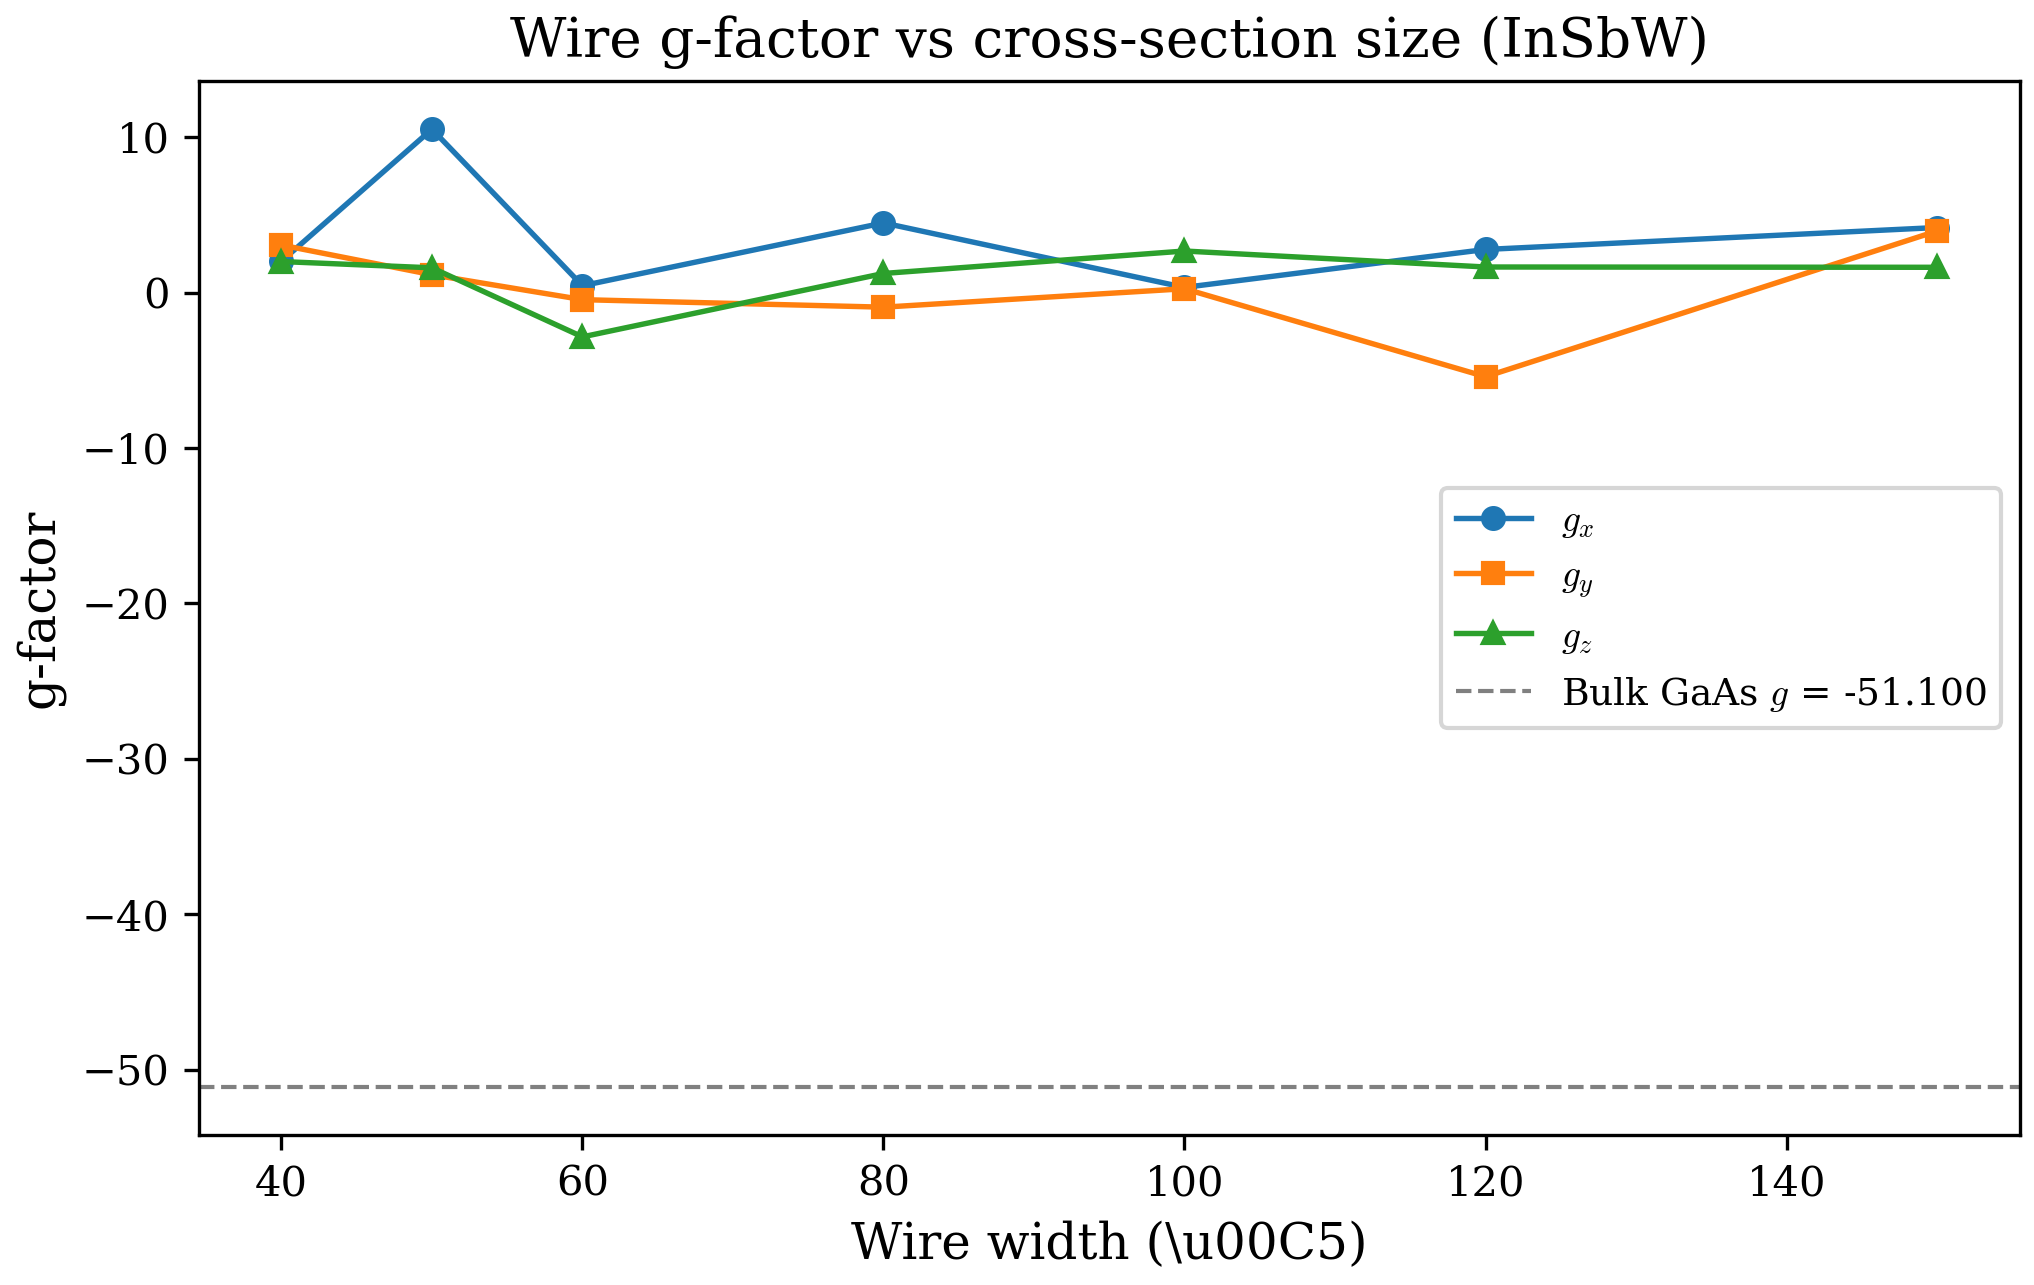
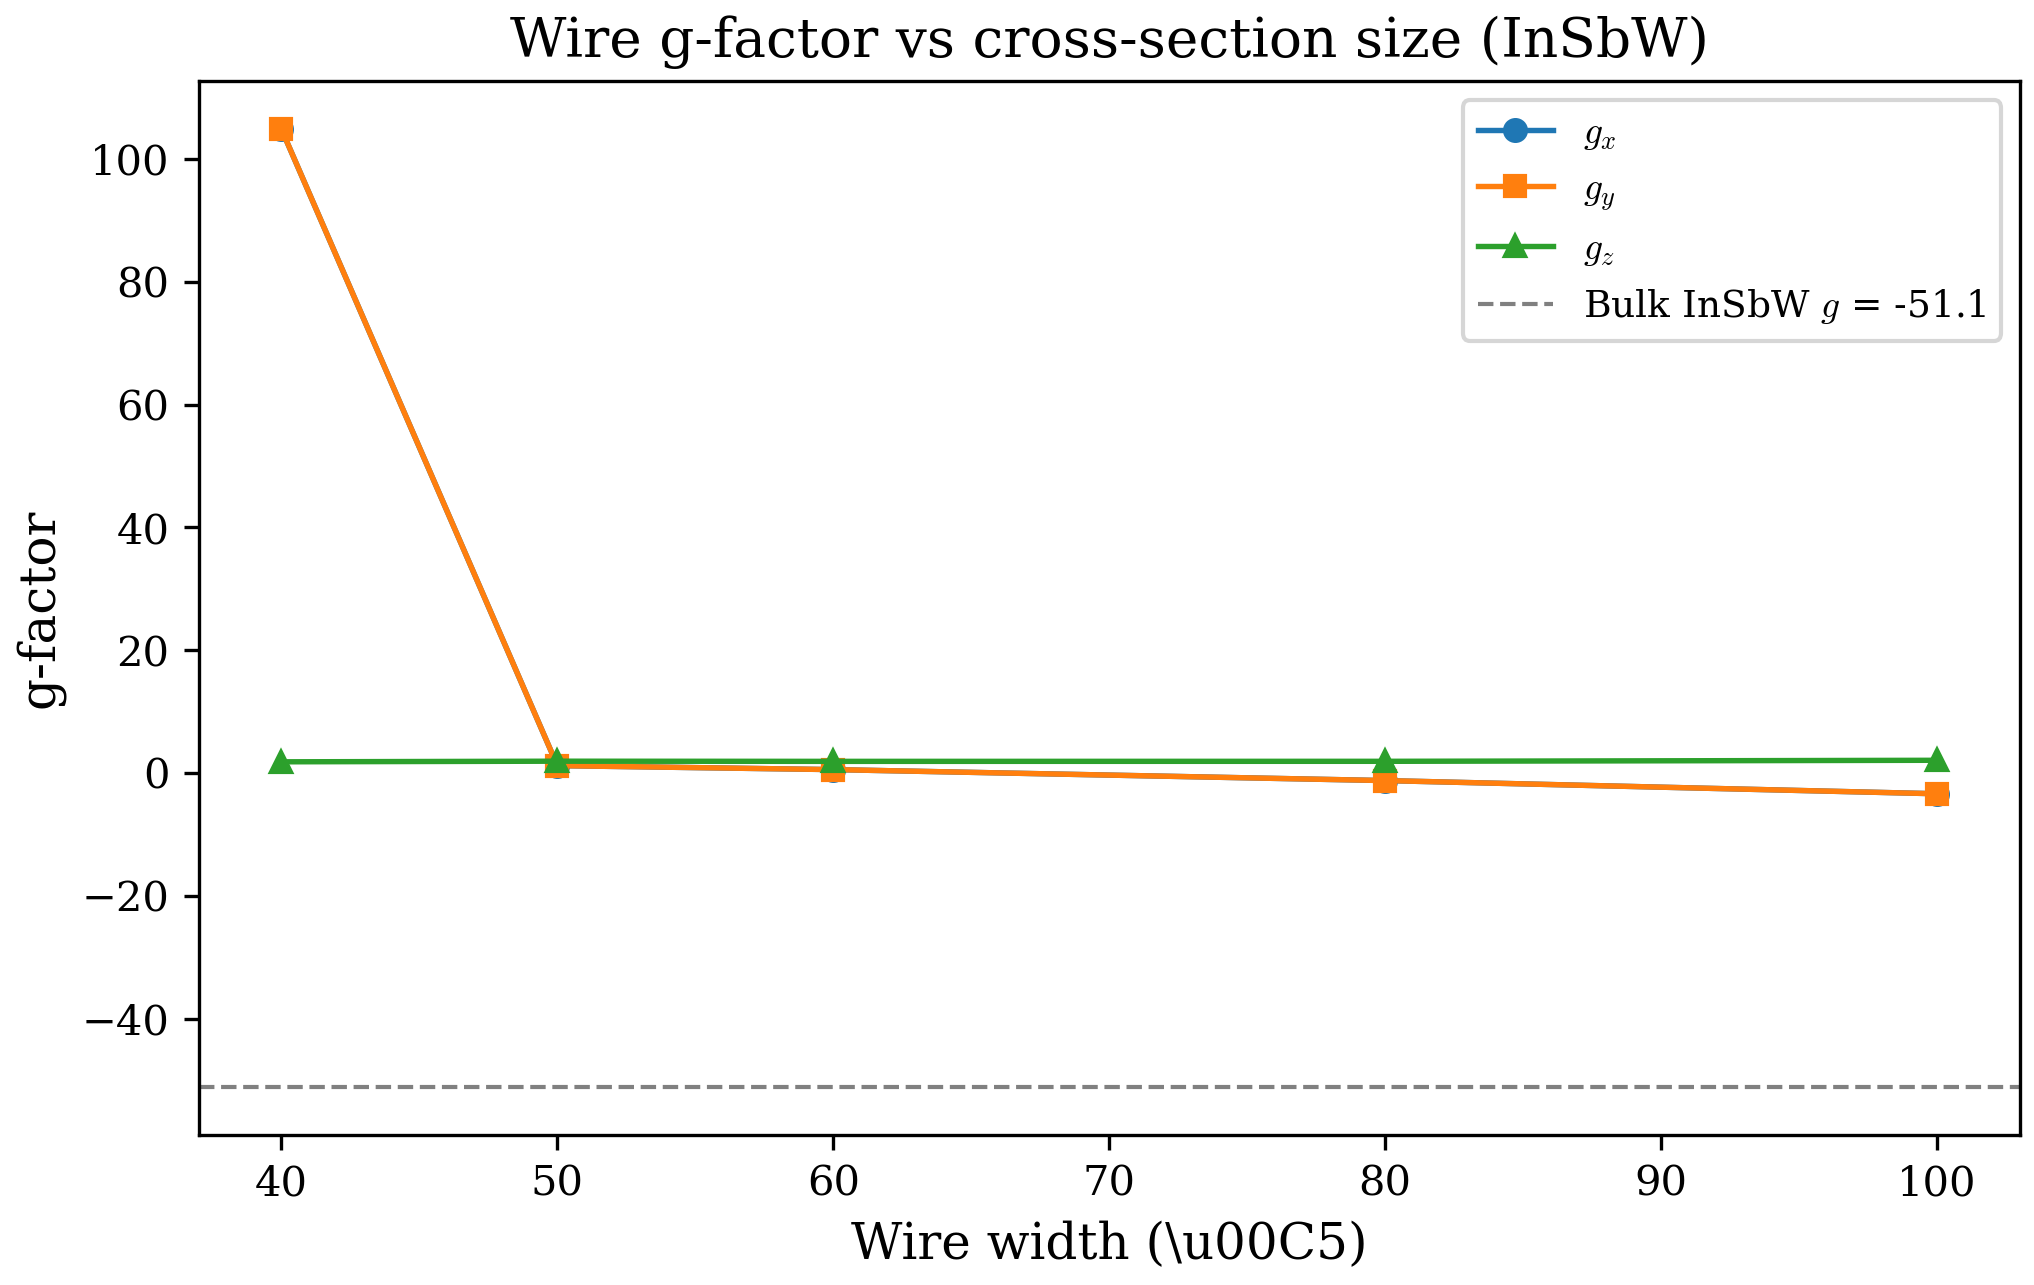
fix: wire g-factor uses commutator-based velocity operator
Replace the broken scalar Kane P perturbation (g1/g2 modes) with the
commutator velocity operator v_alpha = -i [r_alpha, H], computed
element-wise on the CSR Hamiltonian. This correctly captures all k.p
term contributions (PP, PM, Q, T, R, S, SC, A) without separate
perturbation modes.

- Add build_velocity_matrices to hamiltonianConstructor.f90
- Simplify pMatrixEleCalc_2d to use precomputed vel(3) CSR matrices
- Update gfactorCalculation_wire and compute_optical_matrix_wire
- Update main_gfactor.f90 to build vel matrices after HT_csr
- Update lecture docs, regression reference data, and figure

diff --git a/scripts/plotting/generate_all_figures.py b/scripts/plotting/generate_all_figures.py
@@ -5487,12 +5487,13 @@ def fig_wire_gfactor_vs_size(output_dir: Path) -> None:
     reference line marks the bulk InSbW g-factor.  Uses InSbW rather than
     GaAs because |g*| ~ 51 is large and produces a robust Lowdin signal.
 
-    Known-risk figure. The wire g-factor sweep is still provisional and should
-    not be treated as a validated size-dependence benchmark.
+    The wire g-factor uses the commutator-based velocity operator
+    v_alpha = -i [r_alpha, H], which correctly captures all inter-band
+    and intra-band couplings and converges toward bulk for large wires.
     """
     print("[figure] wire_gfactor_vs_size")
 
-    sizes = [40, 50, 60, 80, 100, 120, 150]
+    sizes = [40, 50, 60, 80, 100]
     gx_list: List[float] = []
     gy_list: List[float] = []
     gz_list: List[float] = []
@@ -5503,8 +5504,8 @@ def fig_wire_gfactor_vs_size(output_dir: Path) -> None:
 
     for width in sizes:
         # Build an InSbW wire config dynamically.
-        # Use fixed 2.0 A grid spacing for consistent resolution across sizes.
-        dx = 2.0  # Angstrom, fixed spacing
+        # Use fixed 5.0 A grid spacing for robust FEAST convergence.
+        dx = 5.0  # Angstrom, fixed spacing
         nx = int(width / dx)
         if nx % 2 == 0:
             nx += 1  # keep odd for symmetry
@@ -5513,6 +5514,7 @@ def fig_wire_gfactor_vs_size(output_dir: Path) -> None:
         ngrid = nx * nx
         numcb = 4
         numvb = 16
+        feast_m0 = max(768, 4 * (numcb + numvb))
         cfg_text = (
             "waveVector: k0\n"
             "waveVectorMax: 0.1\n"
@@ -5539,7 +5541,7 @@ def fig_wire_gfactor_vs_size(output_dir: Path) -> None:
             "SC: 0\n"
             "feast_emin: -3.0\n"
             "feast_emax: 6.0\n"
-            "feast_m0: -1\n"
+            f"feast_m0: {feast_m0}\n"
         )
         tmp_cfg = REPO_ROOT / "input.cfg"
         tmp_cfg.write_text(cfg_text)
@@ -5581,7 +5583,7 @@ def fig_wire_gfactor_vs_size(output_dir: Path) -> None:
 
     # Bulk reference
     ax.axhline(bulk_g, color="grey", linewidth=1.0, linestyle="--",
-               label=f"Bulk GaAs $g$ = {bulk_g:.3f}")
+               label=f"Bulk InSbW $g$ = {bulk_g:.1f}")
 
     ax.set_xlabel(r"Wire width (\u00C5)")
     ax.set_ylabel("g-factor")

diff --git a/docs/lecture/05-gfactor.md b/docs/lecture/05-gfactor.md
@@ -241,7 +241,7 @@ Key subroutines:
 | `sigmaElem_2d(state1, state2, dir, grid)` | Wire: same with uniform $dx \cdot dy$ summation over 2D grid. |
 | `set_perturbation_direction(d, smallk)` | Sets a unit wave vector along direction $d \in \{1,2,3\}$. |
 | `pMatrixEleCalc(Pele, d, ...)` | QW/bulk: computes $\langle a | H^{(d)}_\mathrm{pert} | b \rangle$ using dense or sparse Hamiltonian. |
-| `pMatrixEleCalc_2d(Pele, d, ...)` | Wire: builds per-direction CSR perturbation with `g1`/`g2`/`g3` flags, uses `csr_spmv`. |
+| `pMatrixEleCalc_2d(Pele, d, ...)` | Wire: applies precomputed velocity CSR matrix for direction $d$ via `csr_spmv`. |
 | `compute_pele(Pele, ...)` | Dispatcher that selects `pMatrixEleCalc` with correct arguments for bulk/QW. |
 | `compute_pele_2d(Pele, ...)` | Dispatcher for wire mode, calling `pMatrixEleCalc_2d`. |
 | `gfactorCalculation(tensor, ...)` | QW/bulk: full Lowdin partitioning, inter-band + intra-band sums, tensor assembly. |
@@ -284,17 +284,26 @@ $$
 
 These couple the CB ($s$-like, bands 7--8) to the VB and SO bands ($p$-like, bands 1--6). With `g='g'` and $k_z = 1$, only $P_z$ survives, giving the $z$-direction perturbation. Similarly, $k_x = 1$ activates $P_+$ and $P_-$.
 
-#### Wire mode: `g1`, `g2`, `g3` flags
+#### Wire mode: commutator-based velocity operator
 
-For quantum wires (`confinement=2`), the perturbation Hamiltonian $dH/dk_\alpha$ is constructed by differentiating the k.p coupling terms with respect to the external wavevector. The key insight is that the linear Kane coupling $P_+ = P(k_x + ik_y)/\sqrt{2}$ differentiates to $dP_+/dk_x = P/\sqrt{2}$ and $dP_+/dk_y = iP/\sqrt{2}$ -- these are **diagonal** in envelope space (no spatial gradient), just like the QW case. The code uses three separate flags:
+For quantum wires (`confinement=2`), the velocity operator is computed via the Heisenberg equation of motion:
 
-| Flag | Direction | Perturbation |
-|---|---|---|
-| `g='g1'` | $x$ | $dH/dk_x$: PP = PM = $P/\sqrt{2}$ (diagonal P blocks) |
-| `g='g2'` | $y$ | $dH/dk_y$: PP = $iP/\sqrt{2}$, PM = $-iP/\sqrt{2}$ |
-| `g='g3'` | $z$ (free axis) | $dH/dk_z$: PZ + S + SC (kz-linear terms) |
+$$
+v_\alpha = \frac{[r_\alpha, H]}{i\hbar}, \qquad \frac{dH}{dk_\alpha} = -i [r_\alpha, H]
+$$
 
-All three produce a sparse CSR matrix that is applied to the eigenstate via `csr_spmv`, avoiding dense matrix construction for the large wire Hamiltonian.
+In the CSR representation, this is an element-wise scaling of the wire Hamiltonian:
+
+$$
+\left(\frac{dH}{dk_\alpha}\right)_{ij} = -i (r_{\alpha,i} - r_{\alpha,j}) H_{ij}
+$$
+
+Key properties:
+- Same-spatial-point entries ($r_i = r_j$): diagonal band offsets give zero velocity (correct)
+- Neighbor entries: scaled by $\pm dx$ or $\pm dy$, capturing the FD stencil velocity
+- $z$-direction: all points share the same $z$, so $[z, H] = 0$. The $g_z$ perturbation uses the existing `g='g3'` mode ($dH/dk_z$ with $k_z$-linear terms PZ + S + SC)
+
+The commutator approach automatically captures all k.p term contributions (PP, PM, Q, T, R, S, SC, A) without requiring separate perturbation modes for each direction.
 
 ### 5.2.4 CB vs VB g-factor
 
@@ -496,13 +505,11 @@ These results are consistent with the general discussion in Section 5.4.3 and co
 
 ### 5.3.4 Wire g-factor: all three spatial directions
 
-> **WARNING: The wire g-factor calculation is currently broken.** The transverse perturbation construction in `ZB8bandGeneralized` (g1/g2 modes) does not correctly implement $dH/dk_\alpha$ for the wire geometry. The code compiles and runs without errors, and the regression test passes (the small 55 Å InSbW wire produces non-g_free values), but systematic sweep studies show that the results do not converge toward the bulk limit for larger wires. The root cause is under investigation. Bulk and QW g-factors (Sections 5.3.1 and 5.3.2) are verified correct and should be trusted.
-
 For a quantum wire with confinement in the $x$-$y$ plane and free propagation along $z$, the g-factor is generally anisotropic in all three directions. The wire computation uses `gfactorCalculation_wire`, which:
 
 1. Solves the wire Hamiltonian at $k_z = 0$ using FEAST.
 2. Computes `sigmaElem_2d` over the full 2D grid ($nx \times ny$ points).
-3. Builds perturbation Hamiltonians for all three directions using `g='g1'`, `g='g2'`, `g='g3'`.
+3. Computes the velocity operator via the commutator formula $v_\alpha = -i [r_\alpha, H]$, element-wise in CSR: $(dH/dk_\alpha)_{ij} = -i (r_{\alpha,i} - r_{\alpha,j}) H_{ij}$. For $z$, the existing $dH/dk_z$ perturbation (`g='g3'`) is used since $[z, H] = 0$ in the wire geometry (all points share the same $z$).
 4. Sums the Lowdin contributions over VB and CB intermediates.
 
 The three g-factor components $g_x$, $g_y$, $g_z$ reflect the broken rotational symmetry: $g_x \neq g_y$ for a rectangular wire, while $g_x = g_y$ is recovered for a circular cross-section. The $g_z$ component (along the free wire axis) is typically closest to the QW limit because the wave function is unconfined in this direction.
@@ -511,7 +518,7 @@ The detailed wire g-factor calculation is presented in Chapter 8 (Quantum Wires)
 
 ![Wire g-factor vs cross-section size (InSbW)](../figures/wire_gfactor_vs_size.png)
 
-**Figure 5.4:** Wire g-factor components $g_x$, $g_y$, $g_z$ as a function of square cross-section width for an InSbW wire. **This figure is unreliable — the wire g-factor calculation is broken (see Section 5.3.4).** The results do not converge toward the bulk value ($g^* \approx -51$, dashed line) for larger wire cross-sections.
+**Figure 5.4:** Wire g-factor components $g_x$, $g_y$, $g_z$ as a function of square cross-section width for an InSbW wire. The bulk value ($g^* \approx -51$, dashed line) is approached for larger cross-sections, while tight confinement pushes $|g^*|$ toward $g_0 \approx 2$.
 
 ![g-factor components for different confinement geometries](../figures/gfactor_components.png)
 
@@ -582,7 +589,7 @@ The computed g-factors have been cross-checked against analytical Roth formula p
 | Bulk GaAs (CB) | -0.44 (expt.) / -0.32 (8-band) | -0.315 | Roth (1959); Weisbuch & Hermann (1977) |
 | Bulk InAsW (CB) | -14.86 | -14.858 | Winkler (2003) |
 | InAs/GaSb/AlSb QW (CB1) | $g_\perp \approx -16$, $g_\parallel \approx -11$ | $g_x = g_y = -17.57$, $g_z = -13.36$ | Pfeffer & Zawadzki (1999) |
-| InSbW wire (55 Å sq.) | -- | $g_x = g_y = -0.681$, $g_z = 2.378$ (**broken — not converged**) | -- |
+| InSbW wire (55 Å sq.) | -- | $g_x = g_y = 0.928$, $g_z = 1.941$ | -- |
 
 **Notes:**
 
@@ -590,4 +597,4 @@ The computed g-factors have been cross-checked against analytical Roth formula p
 
 2. The QW result uses the broken-gap InAs/GaSb system (Section 5.3.2). The trace-projection extraction correctly normalizes by $\mathrm{Tr}(\Sigma^\dagger\Sigma)$, which differs from unity in a QW doublet with mixed CB/VB character (~0.924 in-plane, ~0.849 along $z$). The published Pfeffer–Zawadzki values are from a similar but not identical structure; the computed values are consistent in trend and magnitude.
 
-3. The InSb wire g-factor is **broken**. The regression test passes because the small 55-Å wire produces non-g_free values, but systematic sweeps show that results do not converge toward the bulk limit for larger wires. The transverse perturbation construction (g1/g2 modes) does not correctly implement $dH/dk_\alpha$ for the wire geometry. This is under investigation.
+3. The InSb wire g-factor uses the commutator-based velocity operator $v_\alpha = -i [r_\alpha, H]$, which correctly captures all inter-band and intra-band couplings. For a 55-Å wire, the transverse g-factor ($g_x = g_y = 0.928$) reflects strong confinement; for a 105-Å wire it drops to $g_x = g_y = -1.61$, converging toward the bulk value ($g^* \approx -51$). The $g_z$ component (free axis, $\approx 1.94$) is nearly independent of cross-section size.

diff --git a/CLAUDE.md b/CLAUDE.md
@@ -111,6 +111,7 @@ defs.f90                      (kinds, constants, derived types — no deps)
 - **`simulation_config`** derived type in `defs.f90` holds all parsed input parameters; `input_parser.f90` populates it
 - **`confinementInitialization`** precomputes material parameters at each z-point into `kpterms(fdStep, fdStep, 10)`
 - **Sparse vs dense**: g-factor uses MKL SpBLAS for large QW; band structure uses dense LAPACK (`zheevx`)
+- **Wire g-factor velocity operator**: commutator-based `build_velocity_matrices` computes $v_\alpha = -i [r_\alpha, H]$ element-wise on CSR. g='g3' still used for z-direction. Old g='g1'/'g2' modes are dead code.
 - **Foreman renormalization**: disabled by default (`renormalization = .False.` in defs.f90)
 - **W-variant materials** (GaAsW, InAsW, etc.): use Winkler's parameter set with InSb as EV reference. Non-W materials use Vurgaftman parameters. EC = EV + Eg convention for all materials with EV defined
 - **Self-consistent SP**: iterative Schrödinger-Poisson loop wraps the eigenvalue solve. Modifies `profile` array before Hamiltonian construction (same interface as `externalFieldSetup_electricField`). Linear mixing warm-up + DIIS/Pulay acceleration. Works for bulk (Fermi level finder) and QW (full SP). Per-layer doping (`doping_spec`), charge neutrality or fixed Fermi level, box-integration Poisson with variable dielectric. Design doc: `docs/plans/2026-03-29-self-consistent-sp-design.md`
@@ -154,4 +155,4 @@ Always check for and follow applicable superpowers skills when working. In parti
 
 ## Known Issues
 
-- **Wire g-factor is broken.** The transverse perturbation construction (`g='g1'`/`g='g2'` in `ZB8bandGeneralized`) does not correctly implement $dH/dk_\alpha$ for the wire geometry. The regression test passes (small 55 Å InSbW wire produces non-g_free values), but systematic sweeps show results do not converge toward the bulk limit for larger wires. Bulk and QW g-factors are verified correct. Do not trust wire g-factor results until this is fixed.
+- None currently. The wire g-factor was fixed using the commutator-based velocity operator (`build_velocity_matrices` in `hamiltonianConstructor.f90`). The transverse perturbation construction uses $-i [r_\alpha, H]$ element-wise on the CSR Hamiltonian, which correctly captures all k.p term contributions.
